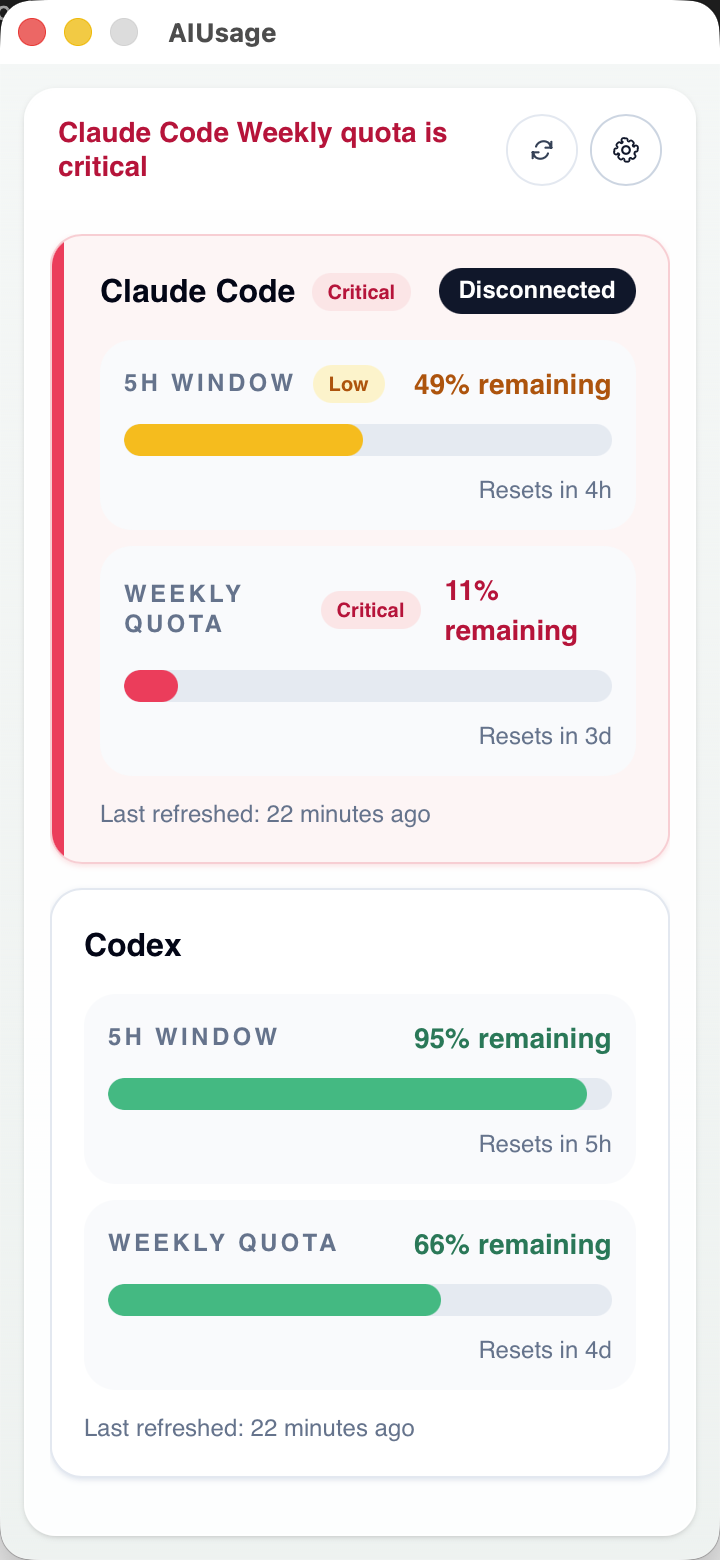
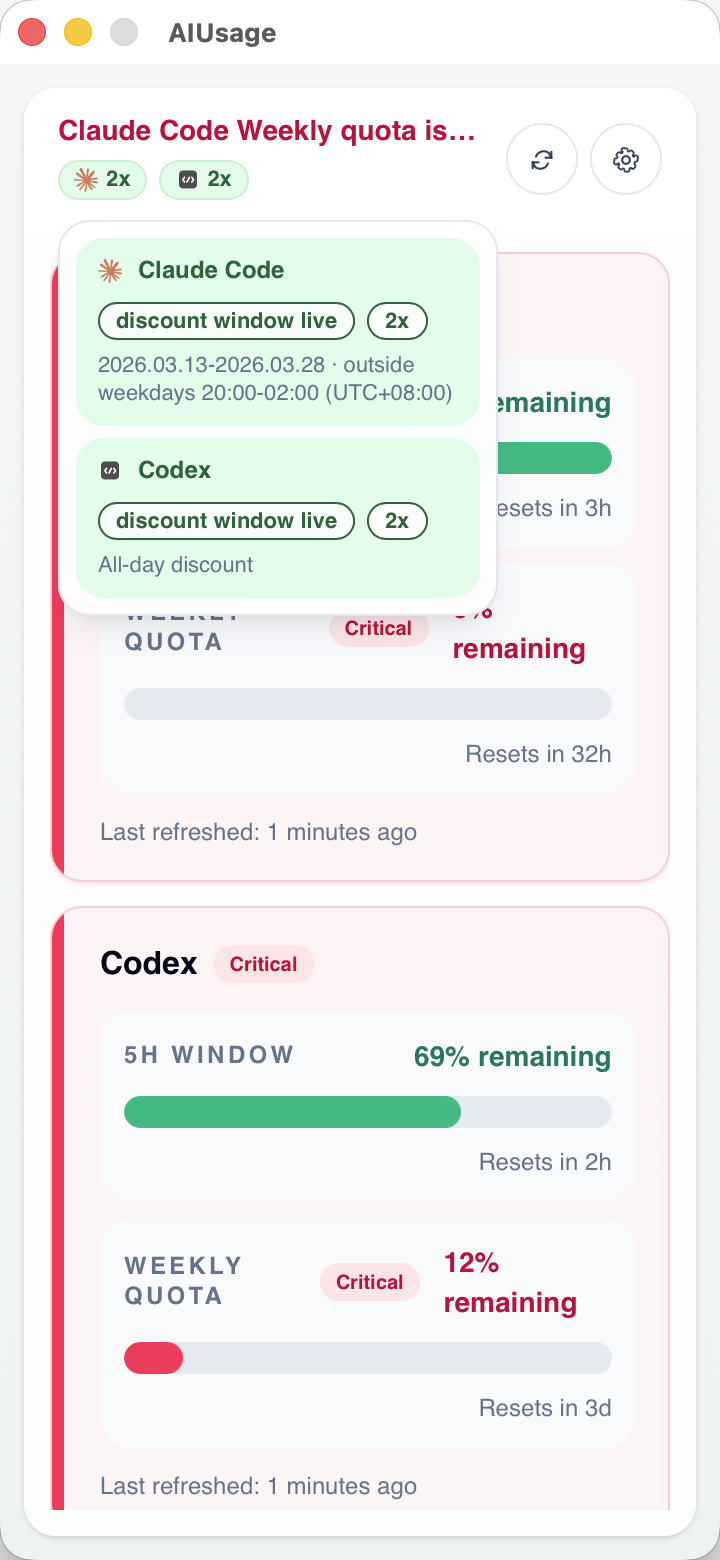
docs: refresh readme product messaging

diff --git a/README.md b/README.md
@@ -1,10 +1,12 @@
 # AIUsage
 
-AIUsage is a tray-first desktop app for checking AI CLI quota usage.
+AIUsage shows Codex and Claude Code quotas in your tray or menu bar.
+It supports macOS (tested) and Windows (not yet tested; testing is welcome).
 
 ## Features
 
 - Check Codex and Claude Code quota status from one desktop panel
+- Quickly check quotas and promotions for supported services
 - Review remaining quota, reset timing, and severity at a glance
 - Keep the app in the tray or menu bar instead of a full desktop window
 - Refresh service status on demand
@@ -17,13 +19,28 @@ Download a prebuilt desktop package from the [GitHub Releases page](https://gith
 
 ## Screenshots
 
-Quota panel:
+Menu bar:
 
-![AIUsage quota panel](./screenshots/panel-en.png)
+![AIUsage menu bar](./screenshots/menu-bar.png)
 
-Settings:
-
-![AIUsage settings](./screenshots/setting-en.png)
+<table>
+  <tr>
+    <td align="center">
+      <strong>Quota panel</strong>
+    </td>
+    <td align="center">
+      <strong>Settings</strong>
+    </td>
+  </tr>
+  <tr>
+    <td align="center">
+      <img src="./screenshots/panel-en.png" alt="AIUsage quota panel" width="320" />
+    </td>
+    <td align="center">
+      <img src="./screenshots/setting-en.png" alt="AIUsage settings" width="320" />
+    </td>
+  </tr>
+</table>
 
 ## Usage
 
